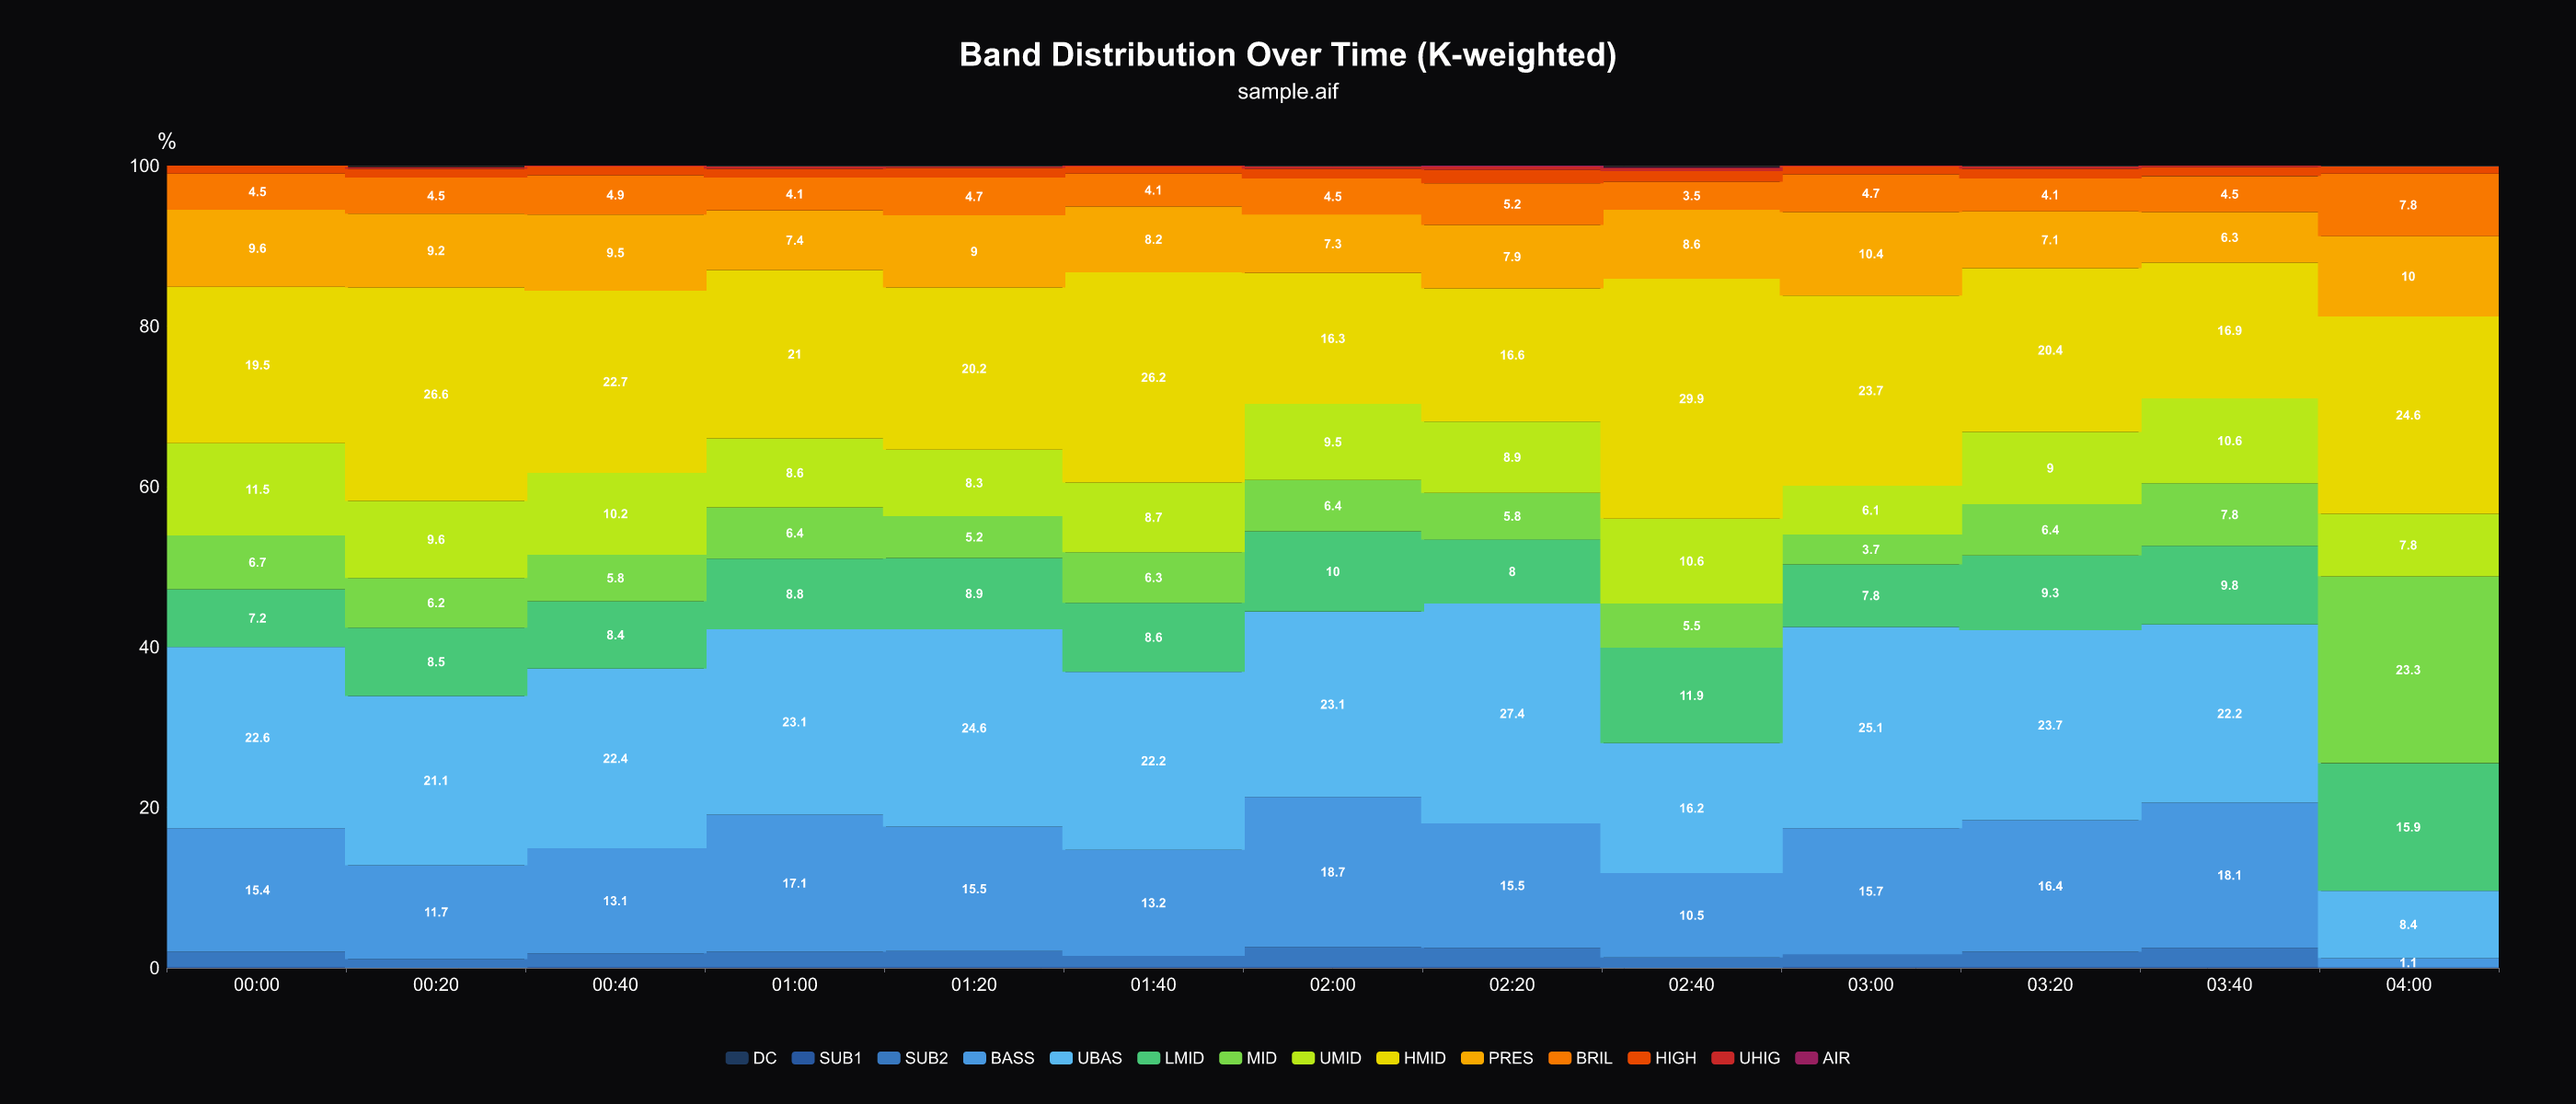
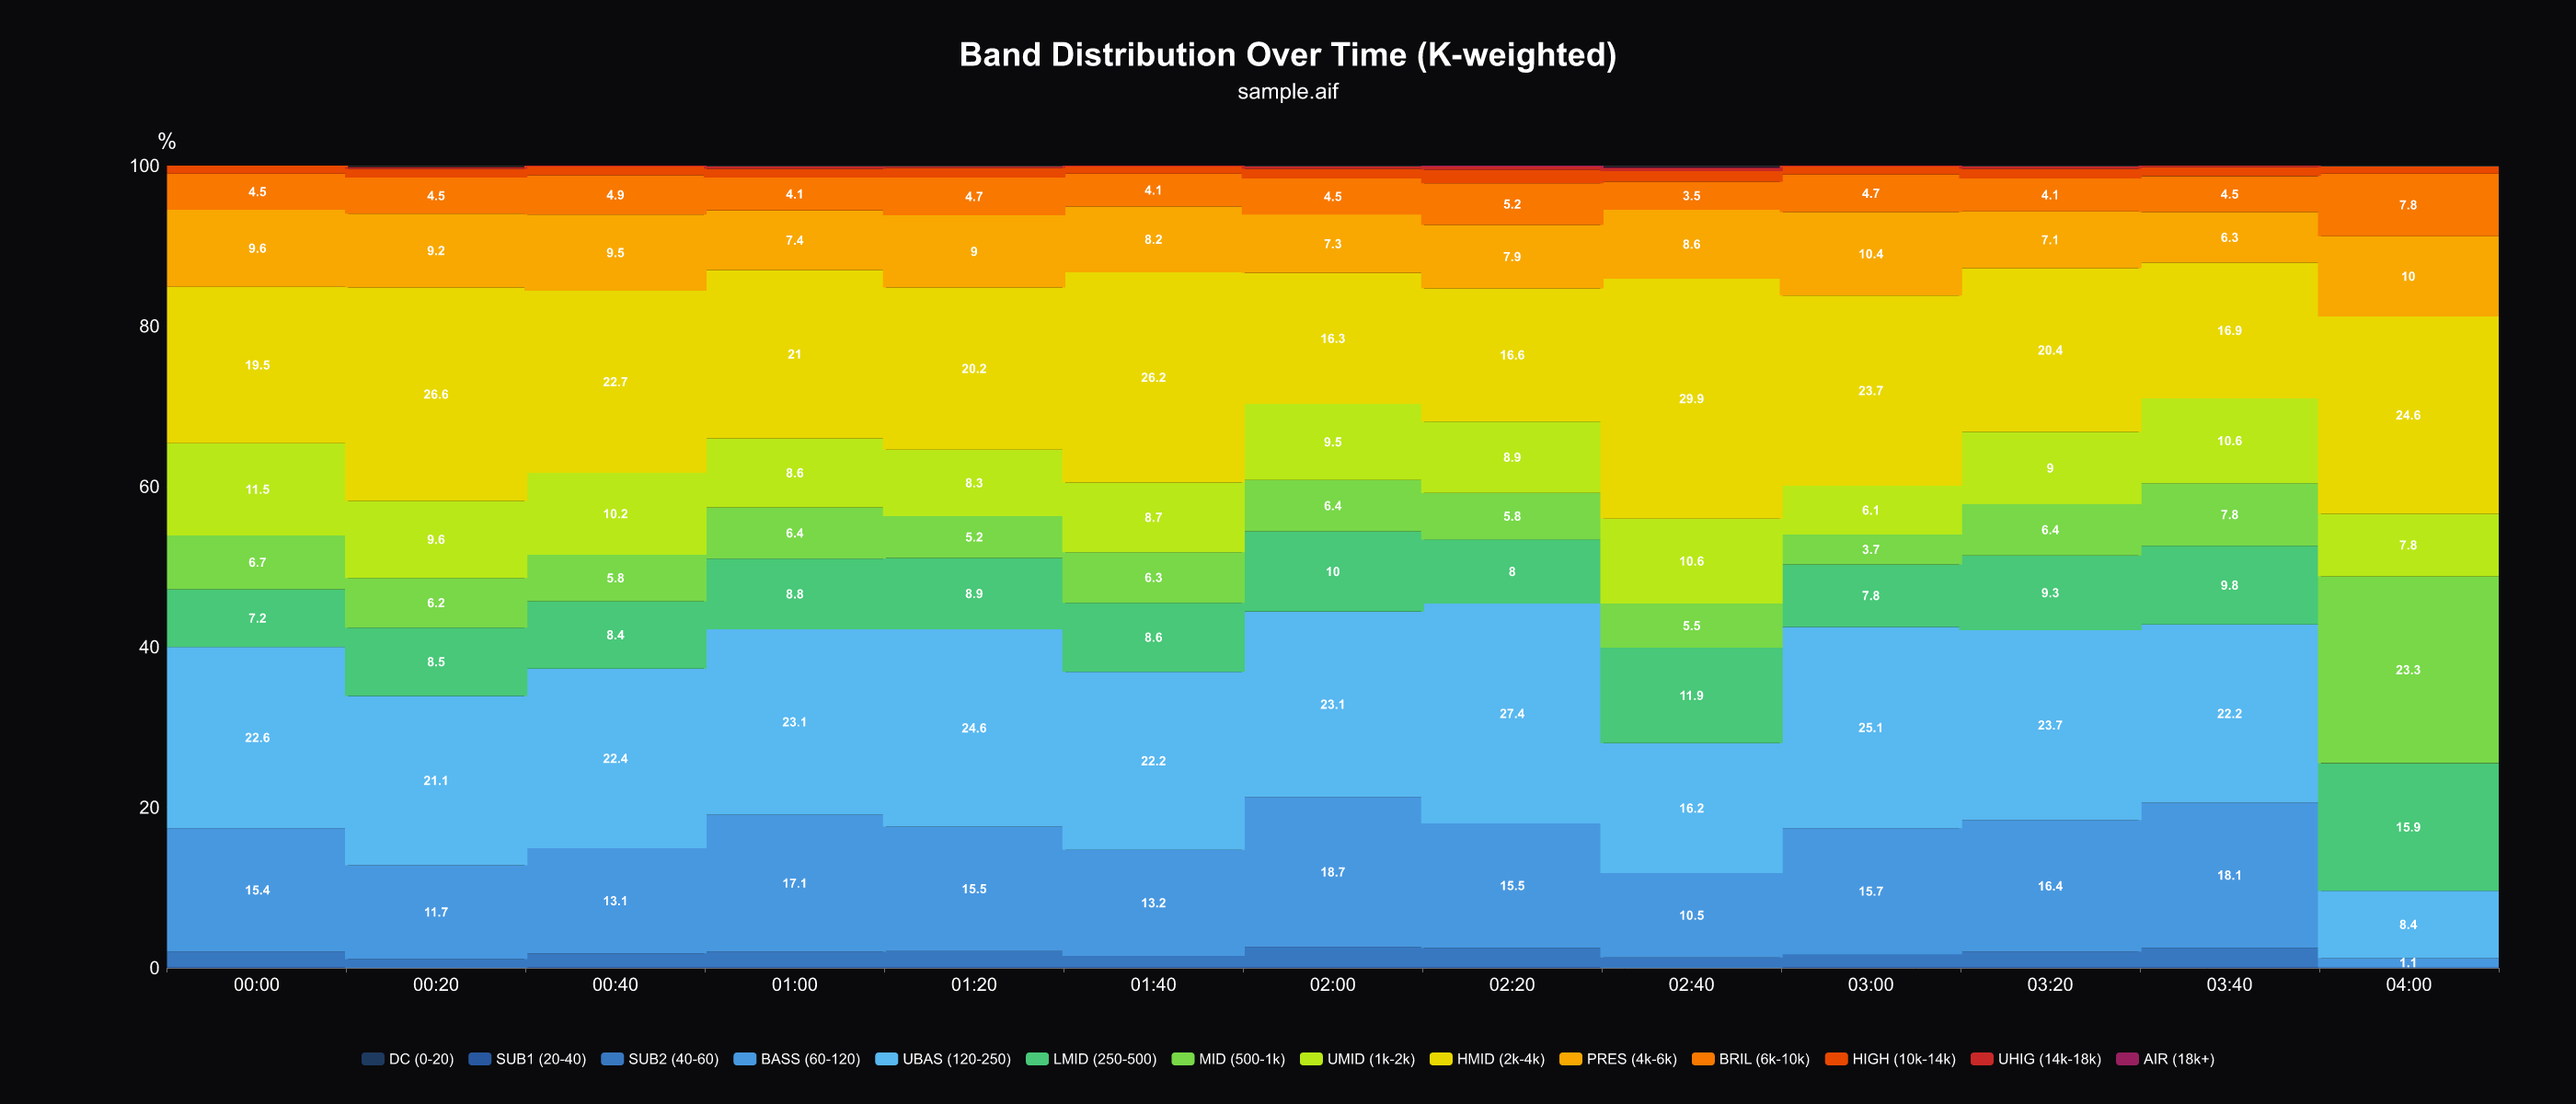
Add frequency ranges to chart band labels

Changed region(s): [[0.1243, 0.9558, 0.8389, 0.9867]]

diff --git a/src/chart/stacked.rs b/src/chart/stacked.rs
@@ -12,8 +12,11 @@ use charming::{
 };
 
 use super::colors::{COLOR_BACKGROUND, COLOR_GRID, COLOR_TEXT, TIMELINE_BAND_COLORS};
-use super::{CHART_HEIGHT, CHART_WIDTH, TimelineChartData};
+use super::{CHART_WIDTH, TimelineChartData, build_band_legend_label};
 use crate::analysis::Band;
+
+/// Chart height for stacked charts
+const STACKED_CHART_HEIGHT: u32 = 1200;
 
 /// Render a stacked bar chart for band distribution
 /// Used for both timeline mode (multiple time points) and single-file stats mode (single bar)
@@ -27,8 +30,8 @@ pub fn render_stacked_chart(
         return Err("No data to render".to_string());
     }
 
-    // Build legend data (band labels only, no frequency)
-    let legend_data: Vec<String> = bands.iter().map(|b| b.label.to_string()).collect();
+    // Build legend data with frequency ranges (1-line format for legend)
+    let legend_data: Vec<String> = bands.iter().map(build_band_legend_label).collect();
 
     // For single-bar mode, hide x-axis labels
     let is_single_bar = data.time_labels.len() == 1;
@@ -49,7 +52,7 @@ pub fn render_stacked_chart(
                 .data(legend_data)
                 .bottom("3%")
                 .item_gap(16)
-                .text_style(TextStyle::new().color(COLOR_TEXT).font_size(18)),
+                .text_style(TextStyle::new().color(COLOR_TEXT).font_size(16)),
         )
         .grid(
             Grid::new()
@@ -114,8 +117,11 @@ pub fn render_stacked_chart(
         // Check if any value in this band exceeds threshold (to decide if we show labels)
         let has_significant_values = bar_data.iter().any(|&v| v >= LABEL_THRESHOLD);
 
+        // Use legend label (with frequency) as series name for legend matching
+        let series_name = build_band_legend_label(band);
+
         let mut bar = Bar::new()
-            .name(band.label)
+            .name(&series_name)
             .data(bar_data)
             .stack("total")
             .bar_width(bar_width)
@@ -138,7 +144,7 @@ pub fn render_stacked_chart(
     }
 
     // Render to PNG
-    let mut renderer = ImageRenderer::new(CHART_WIDTH, CHART_HEIGHT);
+    let mut renderer = ImageRenderer::new(CHART_WIDTH, STACKED_CHART_HEIGHT);
     renderer
         .save_format(ImageFormat::Png, &chart, output_path)
         .map_err(|e| format!("Failed to save chart: {}", e))?;

diff --git a/src/chart/mod.rs b/src/chart/mod.rs
@@ -48,7 +48,7 @@ pub(super) fn format_freq(hz: f32) -> String {
     }
 }
 
-/// Build band label with frequency range (2 lines)
+/// Build band label with frequency range (2 lines, for X-axis)
 pub(super) fn build_band_label(band: &Band) -> String {
     let freq_range = if band.high_hz == f32::MAX {
         format!("{}+", format_freq(band.low_hz))
@@ -56,4 +56,14 @@ pub(super) fn build_band_label(band: &Band) -> String {
         format!("{}-{}", format_freq(band.low_hz), format_freq(band.high_hz))
     };
     format!("{}\n{}", band.label, freq_range)
+}
+
+/// Build band label with frequency range (1 line, for legend)
+pub(super) fn build_band_legend_label(band: &Band) -> String {
+    let freq_range = if band.high_hz == f32::MAX {
+        format!("{}+", format_freq(band.low_hz))
+    } else {
+        format!("{}-{}", format_freq(band.low_hz), format_freq(band.high_hz))
+    };
+    format!("{} ({})", band.label, freq_range)
 }

diff --git a/tests/common/mod.rs b/tests/common/mod.rs
@@ -75,9 +75,7 @@ pub fn generate_multitone(
         .map(|i| {
             freqs_and_amps
                 .iter()
-                .map(|(freq, amp)| {
-                    (2.0 * PI * freq * i as f32 / sample_rate as f32).sin() * amp
-                })
+                .map(|(freq, amp)| (2.0 * PI * freq * i as f32 / sample_rate as f32).sin() * amp)
                 .sum::<f32>()
                 * 0.5
         })
